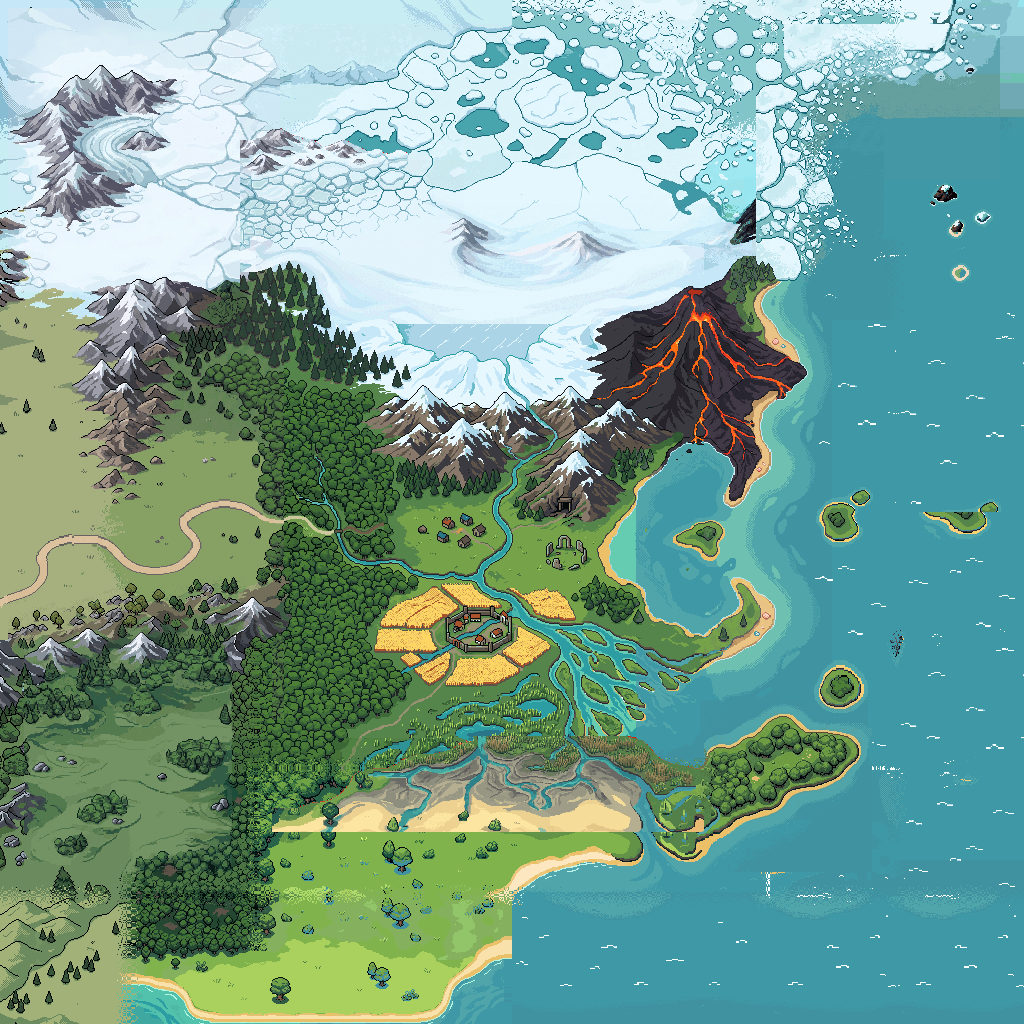
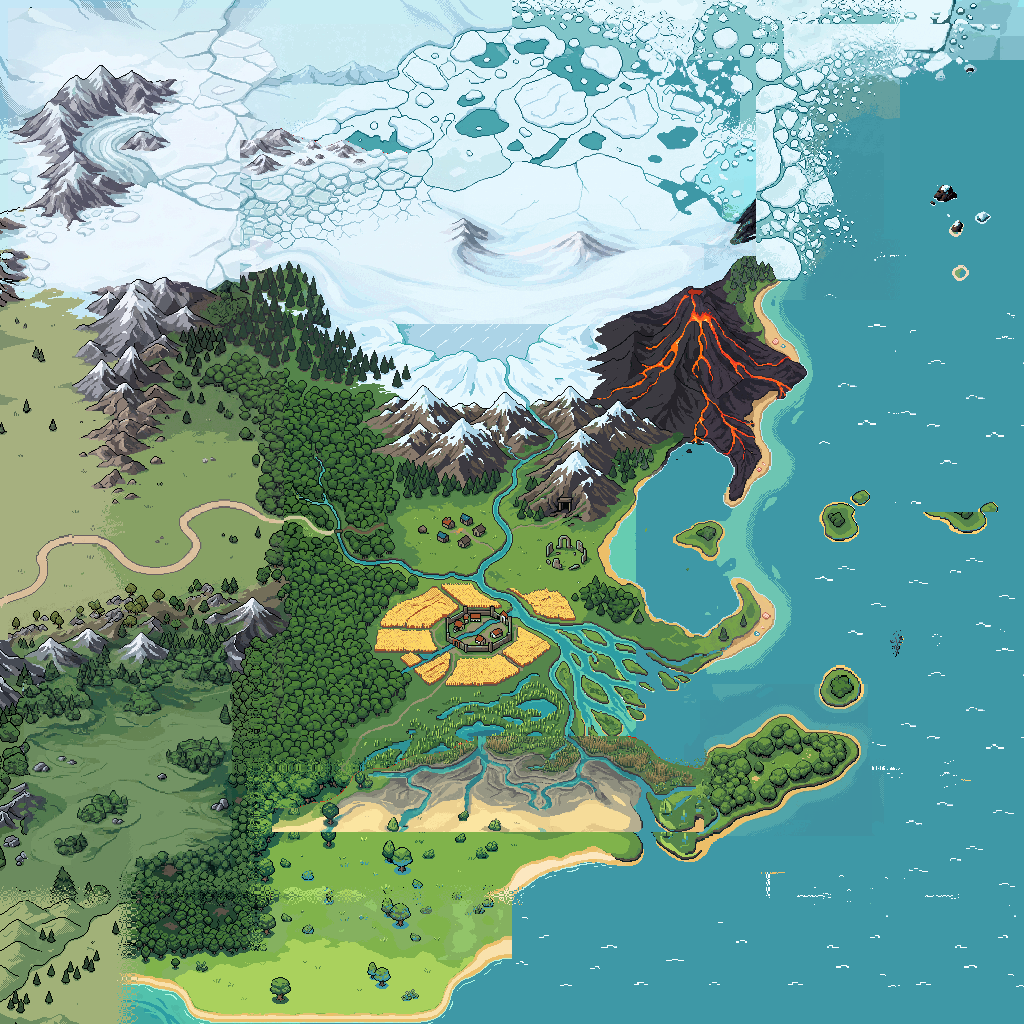
World: the east sea becomes one sea (Atlas Coherence UI 01 — ocean unification refinement)
A full nine-region audit (survey, true phone-FOV, max-zoom) of the shipped atlas
found the gross rectangles resolved and one deterministic-only defect: a faint
vertical texture-density boundary in the open east sea (~x=832, authored
east-bridge water meeting the flatter far-east sea) plus a small unconformed
far-NE corner. Fixed in ocean_unify.js with NO PixelLab: one global source
distribution across all conform rects (no two deep-water sub-populations can
differ), a flat far-east target swatch (the whole sea snaps flat, so the
authored-side mottling matches), and the east rect extended over the far-NE
corner above the ice (ice excluded by the luminance/teal guards). East, NE and
SE now read as one sea.

No terrain PixelLab spent this pass: at phone-FOV and max-zoom the NW, north,
west, south, SE headland and volcano surroundings read as continuous geography
from the asset. package-art --check clean (792 files); source-safety clean;
World goldens unchanged (the sea is outside the Haven's-Rest default view);
balance held at 300.

Changed region(s): [[0.875, 0.0312, 1.0, 0.125], [0.625, 0.0625, 0.75, 0.1562]]

diff --git a/GAME_BIBLE/ART/exploration/WORLD_ATLAS_COHERENCE_UI_01/tools/ocean_unify.js b/GAME_BIBLE/ART/exploration/WORLD_ATLAS_COHERENCE_UI_01/tools/ocean_unify.js
@@ -28,11 +28,16 @@ const isDeep = (r, g, b) => {
   return b >= r + 8 && g >= r + 3; // teal family
 };
 
-// Target dialect: a clean swatch of accepted east-coast open sea.
-const TGT = { x: 820, y: 560, w: 64, h: 140 };
+// Target dialect: a clean swatch of FLAT far-east open sea (moved out from the
+// more mottled east-coast water at 820,560). Snapping the whole sea to the flat
+// palette also flattens the authored-side mottling, so the texture-density
+// boundary at x~832 does not survive as one sea.
+const TGT = { x: 944, y: 380, w: 64, h: 180 };
 // Rectangles of open sea to conform (deep-water edges only). [x,y,w,h]
 const RECTS = [
-  [636, 180, 388, 720], // whole eastern sea (east coast + far-east + SE bridge water)
+  [636, 60, 388, 840], // whole eastern sea incl the far-NE corner above the ice
+                       // (ice/floes are excluded by the guards, so only open
+                       // water in this box is touched)
   [300, 860, 724, 164], // south / bottom deep sea (below the delta shallows)
   [504, 892, 520, 132], // r2_south_e panel: a distinct darker population its own
                         // stats flatten to the target (survived the broad rect)
@@ -72,11 +77,18 @@ function unify(atlas) {
   const palette = [...new Set(tgtPx.map((p) => (p[0] << 16) | (p[1] << 8) | p[2]))]
     .map((v) => [(v >> 16) & 255, (v >> 8) & 255, v & 255]);
 
+  // ONE global source distribution across every rect, so the whole open sea
+  // gets a single mean/std transform and no internal seam can survive between
+  // two deep-water sub-populations (the per-rect version left a vertical tone
+  // division at x~832 where the east bridge's authored sea met the frozen
+  // strip). Deep water everywhere maps from the same `a` to the same target.
+  let srcAll = [];
+  for (const [rx, ry, rw, rh] of RECTS) srcAll = srcAll.concat(collect(rx, ry, rw, rh));
+  if (!srcAll.length) return 0;
+  const a = stats(srcAll);
+
   let changed = 0;
   for (const [rx, ry, rw, rh] of RECTS) {
-    const srcPx = collect(rx, ry, rw, rh);
-    if (!srcPx.length) continue;
-    const a = stats(srcPx);
     for (let y = ry; y < ry + rh; y++) {
       for (let x = rx; x < rx + rw; x++) {
         if (x < 0 || y < 0 || x >= atlas.width || y >= atlas.height) continue;

diff --git a/MILESTONES/WORLD_ATLAS_COHERENCE_UI_01.md b/MILESTONES/WORLD_ATLAS_COHERENCE_UI_01.md
@@ -133,6 +133,27 @@ rectangle; the NE ice/sea and the north ice read as continuous systems. Residual
 faint reads (a subtle north-centre snow-basin tone band; the west forest treeline
 edge) are classified **cosmetic**, and the south-coast whitecap fleck remains.
 
+## 8 · Ocean unification refinement (device pass 3)
+
+The third device review reported remaining rectangular reads across several
+regions. A full nine-region audit of the shipped atlas at survey, true
+phone-FOV (196 atlas px across at opening zoom) and max-zoom scales found the
+gross rectangles resolved, and one **deterministic-only** defect: the open sea
+still carried a faint vertical *texture-density* boundary (~x=832, the authored
+east-bridge sea meeting the flatter strip/far-east sea) and a small unconformed
+far-NE corner. Fixed in `ocean_unify.js` with **no PixelLab**: the conform now
+uses **one global source distribution** across all rects (so no two deep-water
+sub-populations can differ), a **flat far-east target swatch** (so the whole sea
+snaps to the flat palette and the authored-side mottling flattens to match), and
+the east rect extended up to take in the far-NE corner above the ice (ice
+excluded by the luminance/teal guards). The east, NE and SE now read as one sea.
+
+No terrain PixelLab was spent this pass: at phone-FOV and max-zoom the NW, north,
+west, south, SE headland and volcano surroundings read as continuous geography
+from the shipped asset. `--check` clean (792 files); source-safety clean; World
+goldens unchanged (the sea is outside the Haven's-Rest default view). Balance
+held at **300**.
+
 ## 6 · Deferred
 
 - **Label density.** The device brief reports future-landmark labels reading as

diff --git a/PROJECT_STATE.md b/PROJECT_STATE.md
@@ -1,5 +1,27 @@
 # Project Stride — Project State
 
+**Version:** 2.25
+**Status:** 🚧 **WORLD ATLAS COHERENCE UI 01 — ocean-unification refinement
+(device pass 3) built, awaiting the owner's re-test.** Branch
+`playable-phase-2-multiregion`, on top of the edge-integration pass (`6c1cb88`).
+Record: the "Ocean unification refinement" section of
+`MILESTONES/WORLD_ATLAS_COHERENCE_UI_01.md`.
+
+A full nine-region audit at survey, true phone-FOV and max-zoom found the gross
+rectangles resolved and one **deterministic-only** defect: a faint vertical
+texture-density boundary in the open east sea (~x=832) plus an unconformed far-NE
+corner. Fixed in `ocean_unify.js` with **no PixelLab** — one global source
+distribution across all conform rects, a flat far-east target swatch (flattening
+the authored-side mottling), and the east rect extended over the far-NE corner
+(ice excluded by the guards). East, NE and SE now read as one sea. No terrain
+PixelLab spent: at phone-FOV/max-zoom the NW, north, west, south, SE headland and
+volcano read as continuous geography from the asset. `--check` clean (792 files);
+source-safety clean; World goldens unchanged (sea is outside the default view);
+balance held at **300**. Open: Q-06, Q-07 remainder, Q-08, Q-09, Q-10, Q-11,
+OD-04, OD-06.
+
+---
+
 **Version:** 2.24
 **Status:** 🚧 **WORLD ATLAS COHERENCE UI 01 — edge-integration correction
 (device pass 2) built, awaiting the owner's re-test.** Branch
